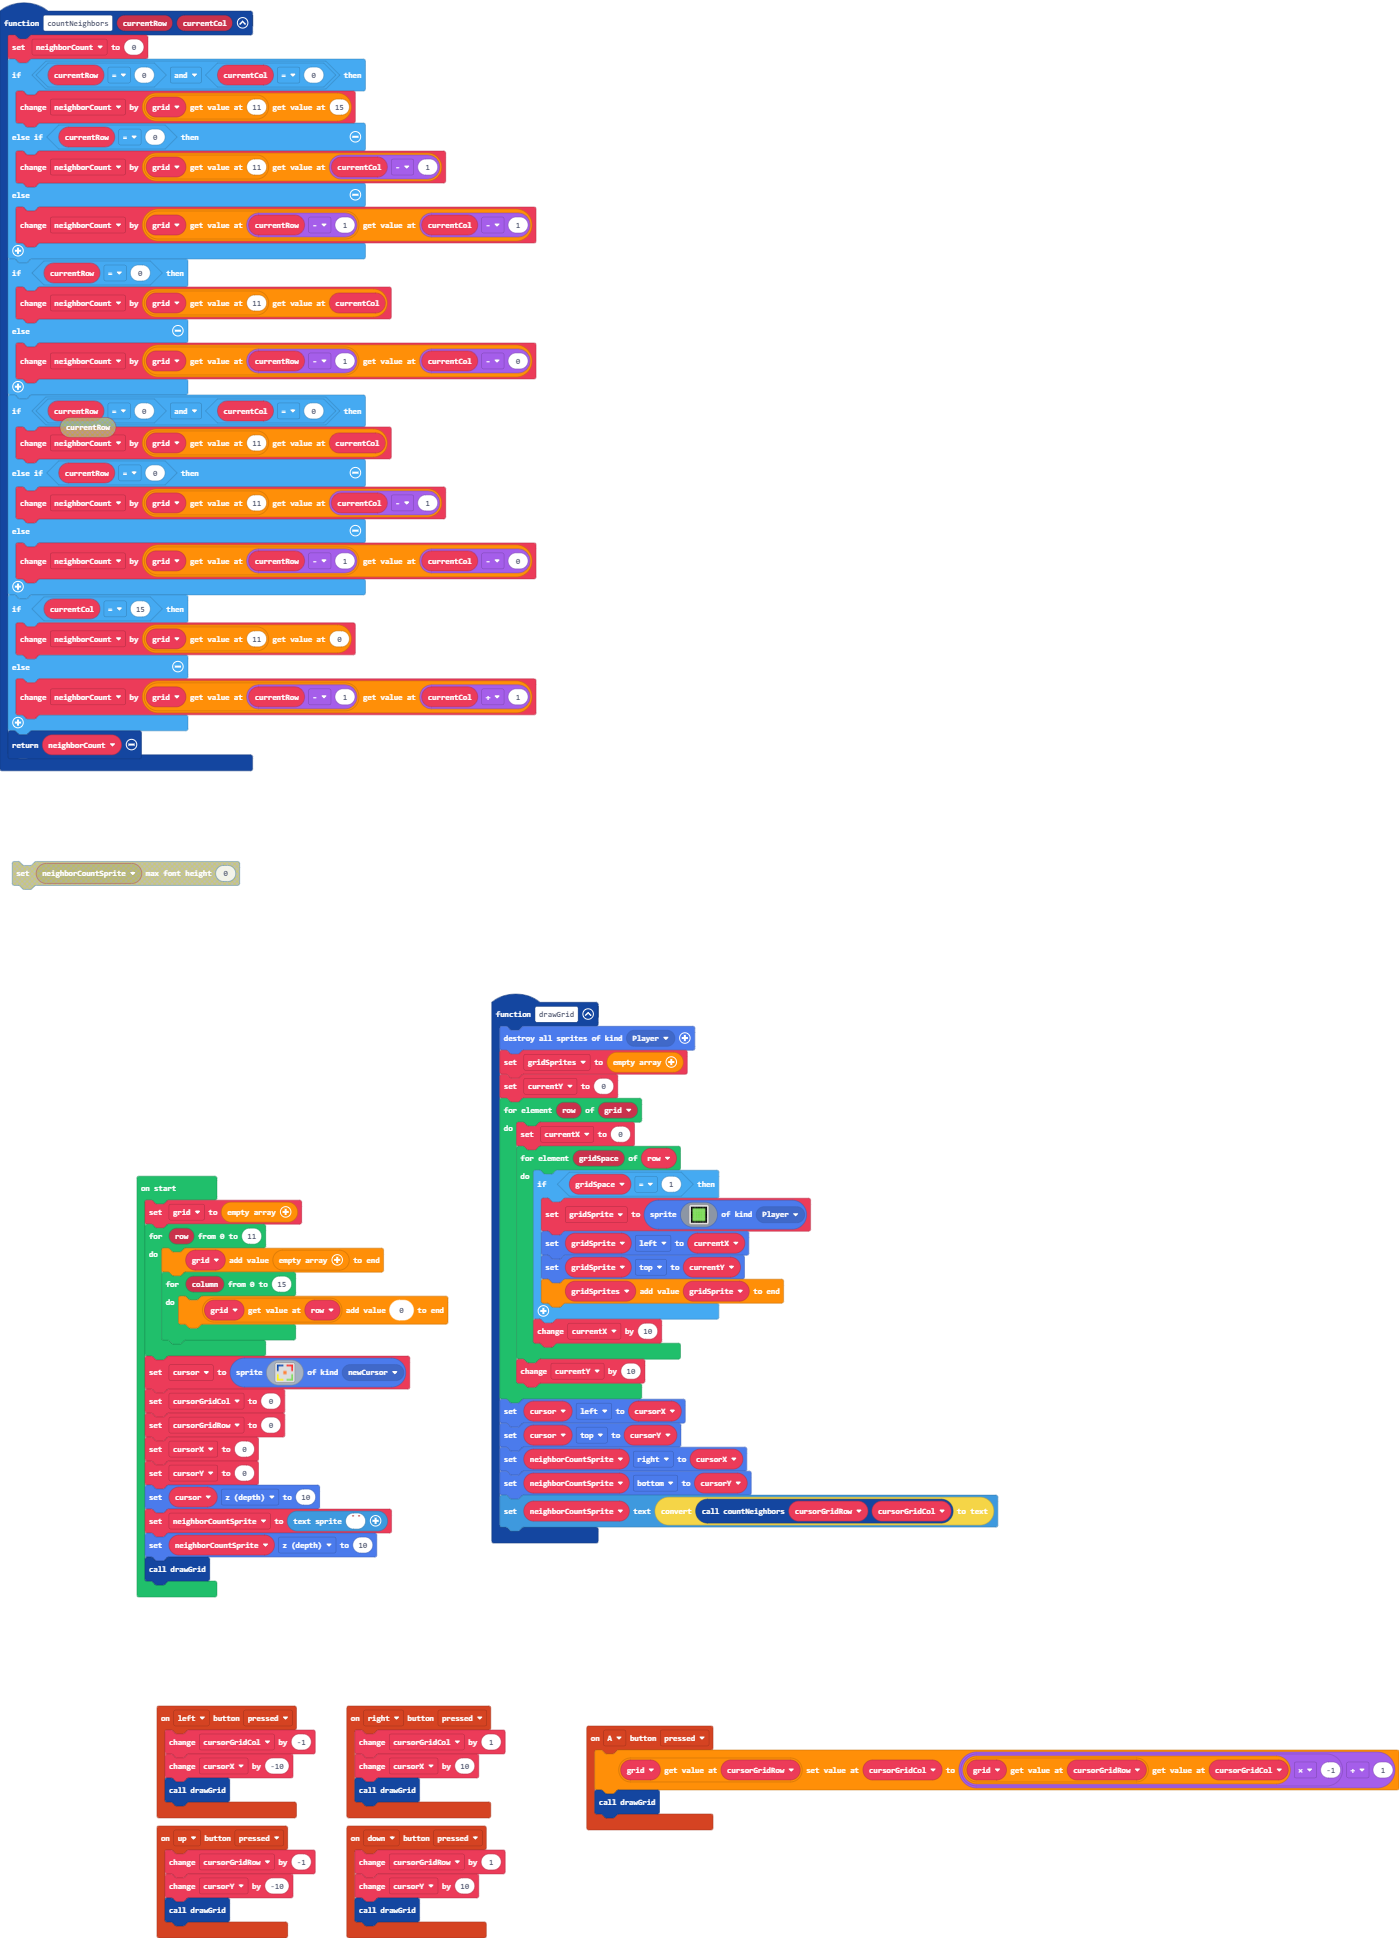
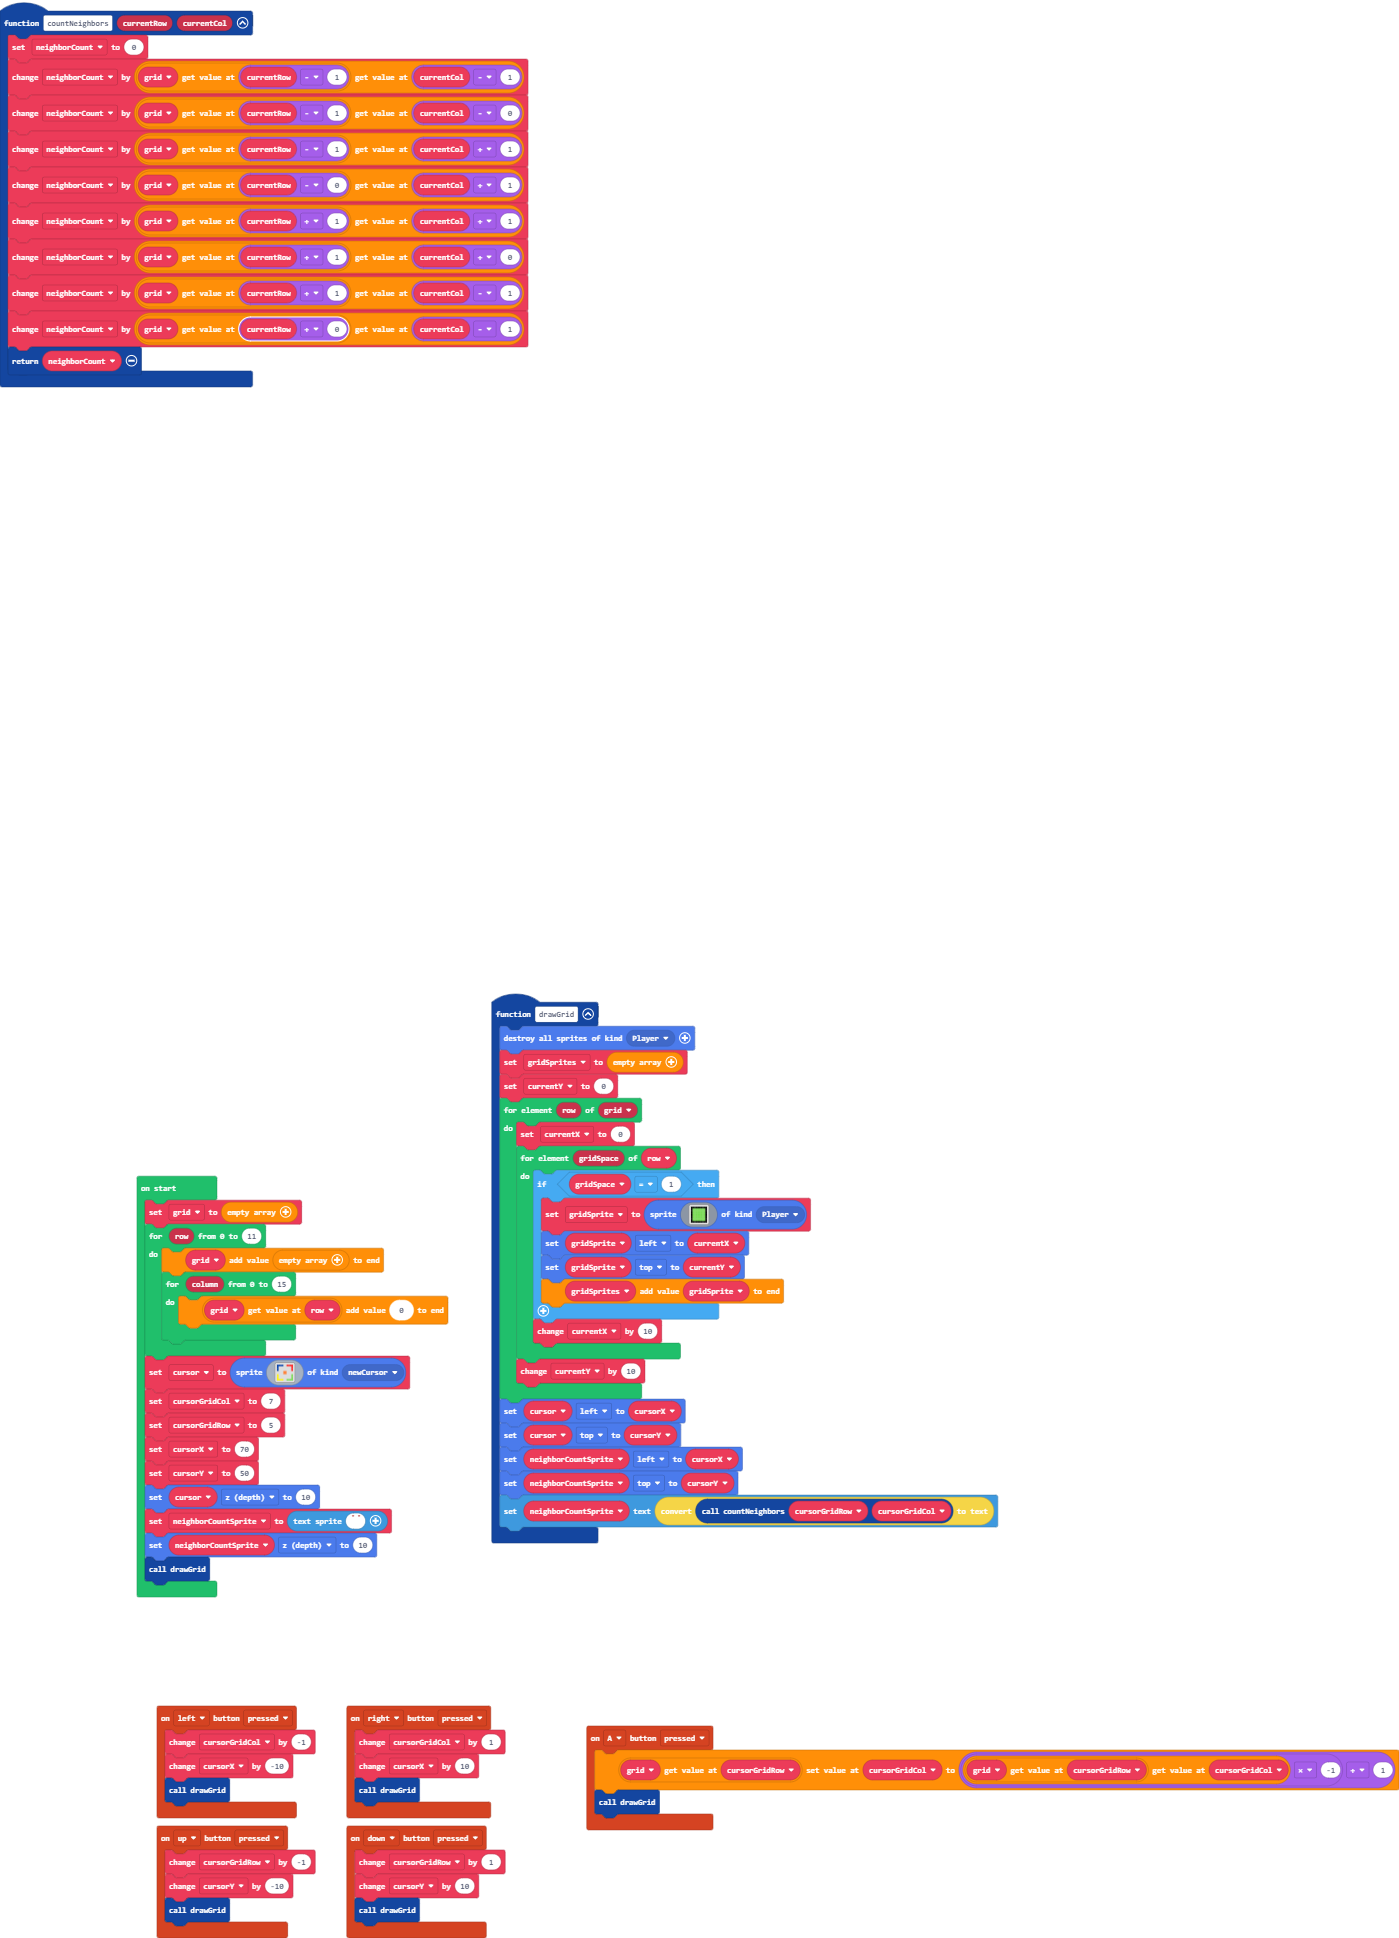
comit

Changed region(s): [[0.0, 0.031, 0.3996, 0.4025], [0.0, 0.4334, 0.1844, 0.4644], [0.461, 0.743, 0.5533, 0.774]]

diff --git a/main.ts b/main.ts
@@ -51,36 +51,20 @@ function drawGrid () {
     }
     cursor.left = cursorX
     cursor.top = cursorY
-    neighborCountSprite.right = cursorX
-    neighborCountSprite.bottom = cursorY
+    neighborCountSprite.left = cursorX
+    neighborCountSprite.top = cursorY
     neighborCountSprite.setText(convertToText(countNeighbors(cursorGridRow, cursorGridCol)))
 }
 function countNeighbors (currentRow: number, currentCol: number) {
     neighborCount = 0
-    if (currentRow == 0 && currentCol == 0) {
-        neighborCount += grid[11][15]
-    } else if (currentRow == 0) {
-        neighborCount += grid[11][currentCol - 1]
-    } else {
-        neighborCount += grid[currentRow - 1][currentCol - 1]
-    }
-    if (currentRow == 0) {
-        neighborCount += grid[11][currentCol]
-    } else {
-        neighborCount += grid[currentRow - 1][currentCol - 0]
-    }
-    if (currentRow == 0 && currentCol == 0) {
-        neighborCount += grid[11][currentCol]
-    } else if (currentRow == 0) {
-        neighborCount += grid[11][currentCol - 1]
-    } else {
-        neighborCount += grid[currentRow - 1][currentCol - 0]
-    }
-    if (currentCol == 15) {
-        neighborCount += grid[11][0]
-    } else {
-        neighborCount += grid[currentRow - 1][currentCol + 1]
-    }
+    neighborCount += grid[currentRow - 1][currentCol - 1]
+    neighborCount += grid[currentRow - 1][currentCol - 0]
+    neighborCount += grid[currentRow - 1][currentCol + 1]
+    neighborCount += grid[currentRow - 0][currentCol + 1]
+    neighborCount += grid[currentRow + 1][currentCol + 1]
+    neighborCount += grid[currentRow + 1][currentCol + 0]
+    neighborCount += grid[currentRow + 1][currentCol - 1]
+    neighborCount += grid[currentRow + 0][currentCol - 1]
     return neighborCount
 }
 controller.down.onEvent(ControllerButtonEvent.Pressed, function () {
@@ -119,10 +103,10 @@ cursor = sprites.create(img`
     5 . . . . . . . . 7 
     5 5 5 5 . . 7 7 7 7 
     `, SpriteKind.newCursor)
-cursorGridCol = 0
-cursorGridRow = 0
-cursorX = 0
-cursorY = 0
+cursorGridCol = 7
+cursorGridRow = 5
+cursorX = 70
+cursorY = 50
 cursor.z = 10
 neighborCountSprite = textsprite.create("")
 neighborCountSprite.z = 10
